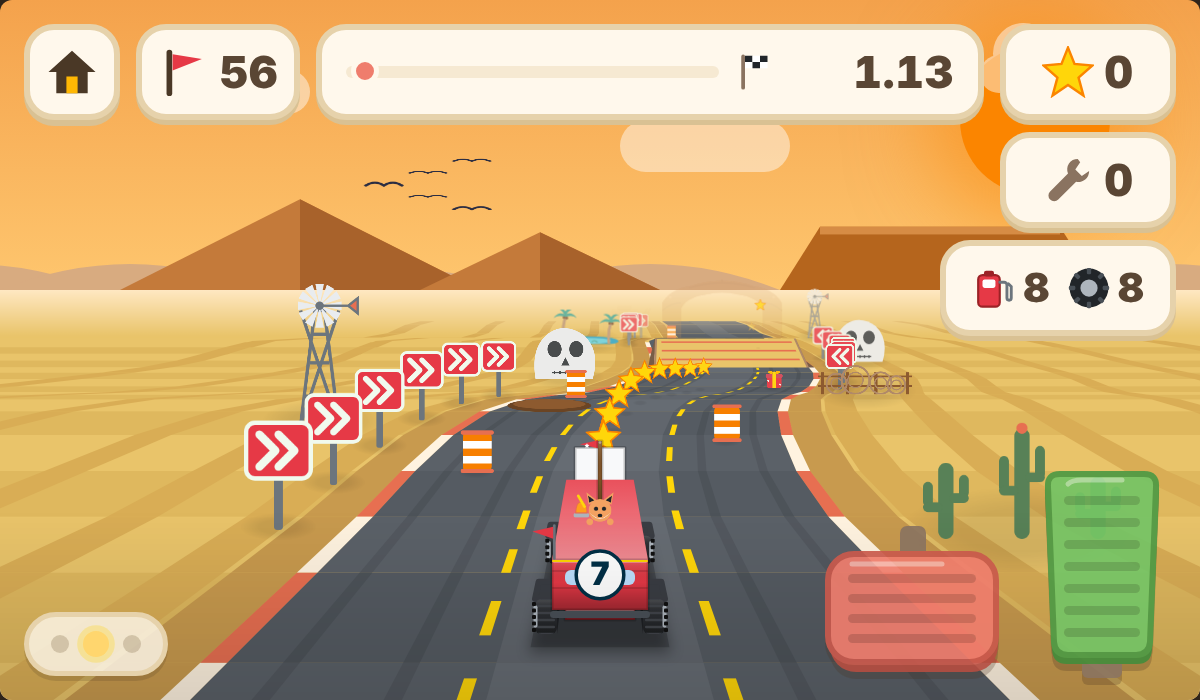
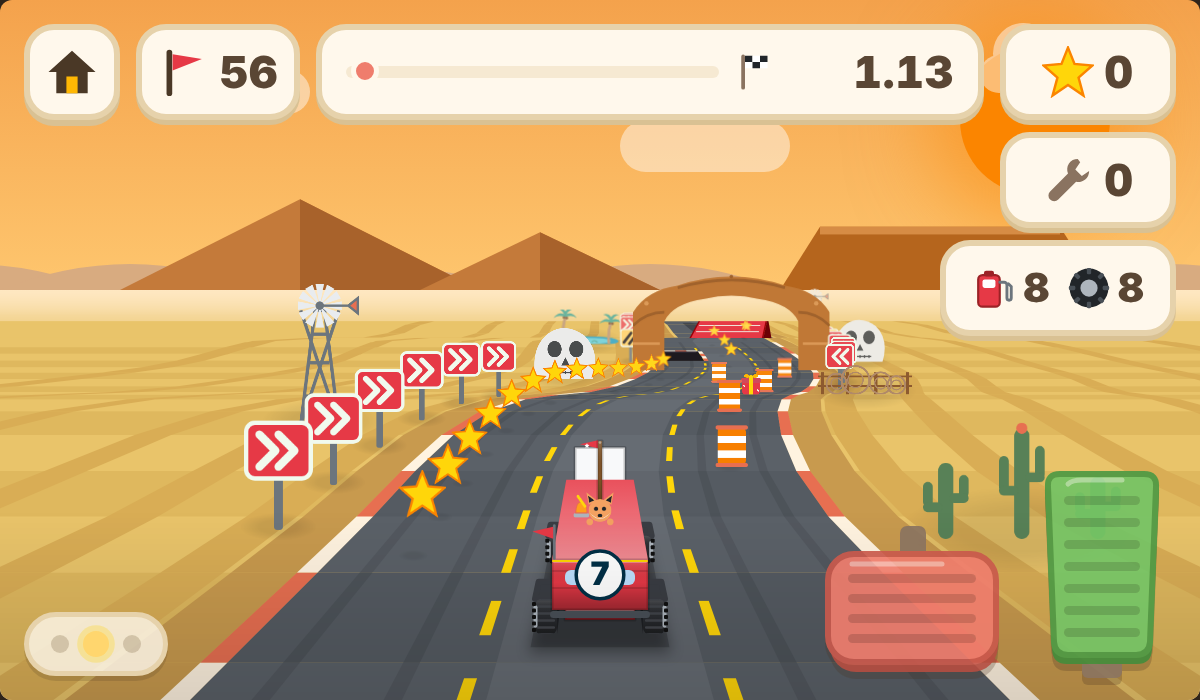
The day chip is gone, the ghost never draws behind the car, README rewritten (v13.19.0)
The map's sun chip (the day of the month, a number nobody could read) is removed with its CSS,
glyph and fill. The grey disc under the arch on 107 was the ghost twin drawn between the camera
and the car: a flat saucer body there projects as a huge translucent disc across the road.
During a race ghostPlace never draws the twin behind the car and fades it right out on top of
the kid's car; after the kid's finish it may still drive through the frame.

README rewritten for the game as it is: Zoomies, the title landing, chompers in three sizes,
ramps in three widths, track gaps, the clean-line speed scrubs, solid hills, the paste button,
the results row, the update badge on the title; new docs/gap.png and docs/narrowramp.png, every
screenshot regenerated on the current content, counts and the version badge current.
ghost-check 19 -> 20, events-check follows. Battery 465/465.

Claude-Session: https://claude.ai/code/session_016ck1aPGLVyXfjAcF2qTzon

Changed region(s): [[0.3392, 0.39, 0.7092, 0.75], [0.3392, 0.45, 0.37, 0.48], [0.3083, 0.24, 0.3392, 0.27]]

diff --git a/index.html b/index.html
@@ -1341,9 +1341,6 @@ html, body { background: #2f241a; }               /* warm dark letterbox, was na
 
 /* ============ SURPRISE EVENTS: map markers, the today chip, the road dino ============ */
 /* today chip: sun + day numeral, mirrors the road HUD's level chip slot (home 24-120 | chip 136-300) */
-#todayChip { left: 136px; top: 24px; width: 164px; justify-content: center; padding: 0; box-sizing: border-box; display: none; }
-#todayChip.show { display: flex; }
-#todayChip svg { width: 56px; height: 56px; }
 /* rainbow day: a soft arc over the meadow, behind the tabs and nodes */
 #mapRainbow { position: absolute; left: 50%; top: 10px; width: 1000px; height: 330px; transform: translateX(-50%); pointer-events: none; z-index: 1; display: none; }
 #mapRainbow.show { display: block; }
@@ -1831,7 +1828,6 @@ html, body { background: #2f241a; }               /* warm dark letterbox, was na
     <div id="mapGround"></div>
     <!-- surprise events: rainbow day arc + the "today" sun chip (filled by renderMapEvents) -->
     <div id="mapRainbow" aria-hidden="true"></div>
-    <div class="chip" id="todayChip" aria-label="today"></div>
     <div id="worldTabs"></div>
     <button class="bigBtn" id="paradeBtn" aria-label="victory parade">
       <svg viewBox="0 0 64 64"><path d="M22 4 L26 10 L32 5 L38 10 L42 4 L44 14 H20 Z" fill="#fff8ec"/><path d="M18 14 H46 V30 Q46 44 32 48 Q18 44 18 30 Z" fill="#fff8ec" stroke="#dca63f" stroke-width="3"/><path d="M18 18 Q6 20 12 32 Q15 38 20 38 M46 18 Q58 20 52 32 Q49 38 44 38" stroke="#fff8ec" stroke-width="4" fill="none"/><rect x="26" y="48" width="12" height="7" fill="#dca63f"/><rect x="20" y="55" width="24" height="6" rx="3" fill="#c69334"/></svg>
@@ -2099,7 +2095,7 @@ html, body { background: #2f241a; }               /* warm dark letterbox, was na
 /* ===== 0. VERSION ===== */
 /* Bumped with each release alongside package.json; shown as a tiny numeral row in the
    grown-ups (profile) panel. The update gate fingerprints the code itself, not this. */
-const APP_VERSION = "13.18.1";
+const APP_VERSION = "13.19.0";
 /* the game's name as the OS sees it (share sheets). The <title>, the apple-mobile-web-app-title meta and
    manifest.webmanifest carry the same word; storage keys and save-code prefixes keep "vroom" forever. */
 const GAME_NAME = "Zoomies";
@@ -8774,10 +8770,12 @@ function ghostPlace(carX) {
   if (over > GHOST_FADE) { if (g.vis) { g.wrap.style.display = "none"; g.vis = false; } return; }
   const [gp, gl, gj] = ghostAt(ghostT);
   g.x = gp + CAR_SCREEN_X - CAR_HIT_Z; g.lx = (gl - 1) * LANE_W; g.h = gj;
+  /* behind the car (between it and the camera) the twin would draw huge and over everything, a flat saucer body as a
+     grey disc across half the road (13.19): it is never drawn there, and on top of the kid's car it fades right out */
+  if (!finished && g.x - carX < -30) { if (g.vis) { g.wrap.style.display = "none"; g.vis = false; } return; }   /* after the kid's finish it may drive through the frame */
   placeSprite(g, carX);
-  /* right on top of the kid's car it thins out so it never hides them; past its own line it fades away */
-  const near = Math.min(1, Math.abs(g.x - carX) / 140);
-  const op = (0.45 * (0.3 + 0.7 * near) * (over > 0 ? 1 - over / GHOST_FADE : 1)).toFixed(2);
+  const near = Math.min(1, Math.abs(g.x - carX) / 160);
+  const op = (0.45 * near * (over > 0 ? 1 - over / GHOST_FADE : 1)).toFixed(2);
   if (op !== g.gop) { g.el.style.opacity = op; g.gop = op; }
 }
 /* ---- end GHOST RACE ---- */
@@ -10553,7 +10551,6 @@ const EVENT_WEATHER = {
   rain: { world: 4, icon: `<svg viewBox="0 0 64 64"><path d="M18 34 a12 12 0 0 1 2 -24 a14 14 0 0 1 26 2 a10 10 0 0 1 2 22 Z" fill="#fff8ec" stroke="#1d3557" stroke-width="4" stroke-linejoin="round"/><path d="M22 42 L18 52 M32 42 L28 52 M42 42 L38 52" stroke="#4cc9f0" stroke-width="5" stroke-linecap="round"/></svg>` },
   snow: { world: 5, icon: `<svg viewBox="0 0 64 64"><g stroke="#4cc9f0" stroke-width="5" stroke-linecap="round" fill="none"><path d="M32 8 V56 M11 20 L53 44 M53 20 L11 44"/><path d="M26 14 L32 20 L38 14 M26 50 L32 44 L38 50 M14 28 L22 30 L20 22 M50 28 L42 30 L44 22 M14 36 L22 34 L20 42 M50 36 L42 34 L44 42"/></g></svg>` }
 };
-const EV_SUN = `<svg viewBox="0 0 64 64"><g stroke="#fb8500" stroke-width="5" stroke-linecap="round"><path d="M32 4 V12 M32 52 V60 M4 32 H12 M52 32 H60 M12 12 L18 18 M46 46 L52 52 M12 52 L18 46 M46 18 L52 12"/></g><circle cx="32" cy="32" r="14" fill="#ffd60a" stroke="#fb8500" stroke-width="4"/></svg>`;
 const EV_RAINBOW_ARC = (() => {
   const cols = ["#e53935", "#fb8c00", "#fdd835", "#43a047", "#1e88e5", "#8e24aa"];
   return `<svg viewBox="0 0 1000 330">` + cols.map((c, i) => {
@@ -10613,12 +10610,9 @@ function dailyEvents() {
   out.weatherWorld = wOrder.find(k => k <= w && k !== EVENT_WEATHER[out.weather].world) || 0;
   return out;
 }
-/* ---- map: markers on the nodes and tabs, the arc, the day chip ---- */
+/* ---- map: markers on the nodes and tabs, the arc (the day chip went in 13.19: a sun with a number nobody could read) ---- */
 function renderMapEvents() {
   const ev = dailyEvents();
-  const chip = document.getElementById("todayChip");
-  chip.classList.toggle("show", ev.day > 0);
-  chip.innerHTML = ev.day > 0 ? EV_SUN + `<span>${ev.day}</span>` : "";
   const arc = document.getElementById("mapRainbow");
   arc.classList.toggle("show", ev.rainbow > 0);
   arc.innerHTML = ev.rainbow > 0 ? EV_RAINBOW_ARC : "";

diff --git a/README.md b/README.md
@@ -16,7 +16,7 @@
   <a href="https://github.com/zacker3310/vroom/actions/workflows/test.yml"><img src="https://github.com/zacker3310/vroom/actions/workflows/test.yml/badge.svg" alt="tests"></a>
   <img src="https://img.shields.io/badge/dependencies-0-74c465" alt="zero dependencies">
   <img src="https://img.shields.io/badge/one%20file-index.html-ffd66e" alt="one file">
-  <img src="https://img.shields.io/badge/version-12.9.0-6fc0df" alt="version 12.9.0">
+  <img src="https://img.shields.io/badge/version-13.19.0-6fc0df" alt="version 13.19.0">
 </p>
 
 ![The title: the ZOOMIES sign hanging over a panorama of the worlds, the kid's own car rolling on the road, the play pill glowing below](docs/title.png)
@@ -25,45 +25,49 @@
 
 ## Highlights
 
-- **Build it, then drive it.** 23 bodies, 14 wheel sets, 24 paints (one of them a secret), 8 flank decals, 12 bolt-on extras, a race number you type on a keypad, and 10 buddies, every one of them drawn in code. The exact car you build in the garage is the car you see from behind on the road, party hat and all.
-- **Twelve worlds, 120 levels.** Construction, sunset, night, rain, snow, desert, beach, space, volcano, candy land, deep sea and sky kingdom. Each is a place with its own roadside, weather, hazards, hills, jingle, ambience and star-chime scale.
-- **A road that bends and rolls.** An OutRun-style chase cam with eased curvature stretches and cosine hills, three lanes, a gas pedal, a brake pedal, and steering by swiping the road. The camera swings through lane changes, widens with speed and shakes on a hit; the car turns its nose into the lane it heads for; every prop stands on its own shadow and fades into the haze; a chomper sits across the road on every world: drive into its mouth and it bites, chews, spits a few of your stars onto the road ahead and then spits you out over them (grab them straight back), hills are solid (what is behind a crest stays behind it until you top it), hard turns come with red chevron boards and howling tires, roller levels stack big hills back to back, and the jumps run from little green hop kickers to a big red mega ramp.
+- **Build it, then drive it.** 23 bodies, 14 wheel sets, 24 paints (one of them a secret), 8 flank decals, 12 bolt-on extras, a race number you type on a keypad, and 10 buddies, every one of them drawn in code. The exact car you build in the garage is the car you see from behind on the road, party hat and all, and the one that rolls across the title screen.
+- **Twelve worlds, 120 levels.** Construction, sunset, night, rain, snow, desert, beach, space, volcano, candy land, deep sea and sky kingdom. Each is a place with its own roadside, weather, hazards, hills, jingle, ambience and star-chime scale. The deep sea runs through a glass tunnel with caustics on the seabed and a whale in the far water.
+- **A road that bends and rolls.** An OutRun-style chase cam with eased curvature stretches and cosine hills, three lanes, a gas pedal, a brake pedal, and steering by swiping the road. The camera swings through lane changes, widens with speed and shakes on a hit; the car turns its nose into the lane it heads for; every prop stands on its own shadow and fades into the haze; hills are solid, so what is behind a crest stays behind it until you top it.
+- **Set pieces that make you steer.** Ramps come in single-lane, two-lane and full-width decks, from little green hop kickers to the big red mega ramp, and only a car on the deck launches. Holes open in the track across one, two or all three lanes; a full-width hole always has a full-width ramp before it, and dropping into one is a bounce and a slowdown, never a crash. Hard turns come with red chevron boards and howling tires; roller levels stack big hills back to back.
+- **The chomper.** A purple monster sits across the road on every world, in one-lane, two-lane and full-width sizes, with a trail of stars leading into its mouth. Drive in and it bites (that one hurts), chews, spits a few of your run's stars back down the road and then spits you out backwards over them; then it dozes off full, and you drive back up through it to collect. Pick another lane and the jaws just snap behind you.
 - **Levels with a signature.** Every level is sequenced from a library of 42 formations so level 7 feels like "the snake-trail level" and level 8 like "the barrel-bowling level". Two headless bots drive all of them in the test suite to prove each is fair.
 - **Race yourself.** Your fastest run on every level rides along as a translucent ghost next time, with a gap chip and a bigger medal when you beat it. A clean line wins: every lane change and every landing scrubs a little speed, so the run that swerves and jumps everywhere is not the run that beat the ghost.
-- **Something new every day.** A gift capsule in the garage once a day, and three surprises on the map seeded from the date: a sleeping dino to honk awake, a rainbow day with a secret paint, a weather day. The garage car idles, blinks and yawns; tap the hood or a wheel.
+- **Something new every day.** A gift capsule once a day, and three surprises on the map seeded from the date: a sleeping dino to honk awake, a rainbow day with a secret paint, a weather day. The garage car idles, blinks and yawns; tap the hood or a wheel.
 - **Keep it running.** Fuel burns and tires wear as you drive, mud sticks until you wash it, dings stay until you fix them. A dry tank crawls and bald tires slide, but nothing ever stops you, and crossing the line spotless pays a shine bonus.
-- **Nothing to read, nothing to lose.** Icons, pictures and numerals only. Stars only go up. Crashes are comedy.
-- **Grown-up friendly.** Three kid profiles, scan-to-open QR save codes, a quiet mode for the car, home-screen install, and a toddler-proof update badge.
+- **Nothing to read, nothing to lose.** Icons, pictures and numerals only (the two words in the game, ZOOMIES on the title sign and PLAY on its button, are drawn as shapes). The star wallet only goes up. Crashes are comedy.
+- **Grown-up friendly.** Three kid profiles, a QR of every save, share-out and scan-in or paste-in, a quiet mode for the car, home-screen install, and a toddler-proof update badge on the title and in the garage.
 - **One file.** No frameworks, no build step, no assets, no network calls. All art is inline SVG, all sound is Web Audio synthesis.
 
 ## Screenshots
 
-| Garage | Road |
+| Title | Garage |
 |---|---|
-| ![Garage](docs/garage.png) | ![Space world: driving the moon road under a starfield with headlights on](docs/space.png) |
+| ![The title: the ZOOMIES sign over a panorama of the twelve worlds, the kid's own car rolling on the road](docs/title.png) | ![The garage: a pirate-ship car with a fox buddy, the body strip open below](docs/garage.png) |
 
 | Worlds | |
 |---|---|
-| ![Deep Sea: a glass tunnel on the seabed under a whale-bone arch, dolphins overhead](docs/sea.png) | ![Sky Kingdom: the cloud causeway with floating castles under a rainbow](docs/sky.png) |
-| ![Rain world: the city under a rainbow, a chomper waiting down the road](docs/rain.png) | ![The world map with the day's surprises: a sleeping dino on one level, a rainbow, a weather badge on a world tab](docs/map.png) |
+| ![Space world: driving the moon road under a starfield with headlights on](docs/space.png) | ![Deep Sea: the glass tunnel on the seabed, caustics on the sand, a whale in the far water](docs/sea.png) |
+| ![Sky Kingdom: the cloud causeway with floating castles under a rainbow](docs/sky.png) | ![Rain world: the city under a rainbow](docs/rain.png) |
 
-| Wild roads | |
+| Set pieces | |
 |---|---|
-| ![A chomper: the purple monster across the road, jaws open, a trail of stars leading in](docs/chomper.png) | ![A desert switchback: red chevron boards on the outside of a hard turn](docs/hardturn.png) |
-| ![The big red mega ramp dead ahead under the construction gantry](docs/megaramp.png) | |
+| ![A chomper: the purple monster across the road, jaws open, a trail of stars leading in](docs/chomper.png) | ![A hole in the track across one lane, hazard boards on the verge](docs/gap.png) |
+| ![A single-lane ramp: the deck under one lane only](docs/narrowramp.png) | ![The big red mega ramp dead ahead under the construction gantry](docs/megaramp.png) |
+| ![A desert switchback: red chevron boards on the outside of a hard turn](docs/hardturn.png) | ![The world map with the day's surprises: a sleeping dino on one level, a rainbow, a weather badge on a world tab](docs/map.png) |
 
 | Album | Results |
 |---|---|
-| ![The sticker album: buddies, badges, and finish-line polaroids with their world behind the car](docs/album.png) | ![The results card: star tally, rating stars, time medal and the shine bonus](docs/celebrate.png) |
+| ![The sticker album: buddies, badges, and finish-line polaroids with their world behind the car](docs/album.png) | ![The results card: star tally, rating stars, time medal, and the row of again, garage, map and next](docs/celebrate.png) |
 
 ## How to play
 
-**The garage.** The game opens on a title screen with your car idling; the big GO lands here. Six category tabs (body, wheels, paint, stickers, extras, workbench) open one
-scrollable strip of big picture tiles; tap a tile to equip it, swipe or use the arrows to see more. Locked parts show in full colour with a star price tag: collect stars, tap, own it. The sticker tab also holds a race number: tap the roundel tile, type up to two digits on a big keypad, and 400 stars paints it on both sides of the car (taking it off is free). The workbench tab holds the engine, shield, star magnet, fuel tank and springs upgrades and the upkeep: fix crash damage with the wrench, wash off real mud with your finger, fill the tank, fit new tires. Fuel burns and tires wear as you drive; a dry tank crawls and bald tires slide, but nothing ever stops you. Cross the line spotless and ding-free and your stars pay a shine bonus. The shuffle button at the end of the tab row builds you a surprise from the parts you own. Tap the car to honk, tap the hood to pop it open, tap a wheel to spin it. Once a day a gift capsule waits on the right wall.
+**The title.** The game opens on a landing: the ZOOMIES sign swings in over a panorama of the twelve worlds, your own car drives on and idles with its wheels turning, and the PLAY pill takes you to the garage. The avatar top left opens the profiles; when a new version is live, a green badge appears beside it (hold it to update). Tap the car to honk.
 
-**The road.** Hold the gas, steer into stars and away from barrels, rocks, TNT, tumbleweeds and crabs. Your best run rides along as a ghost; the chip under the level flag shows the gap, and beating it pays your stars at 1.5x. A new star best pays in full; a plain replay pays half, so favourite levels are a treat, not a farm. Free drive on the map is a daily treat: up to 100 stars a day, then the button rests until tomorrow. Ramps jump, puddles splash, capsules pop open with prizes (and sometimes a buddy). The finish gantry brings confetti, a star tally, a 1 to 3 star rating and an S/A/B/C time medal. Under it, four buttons: again (big and blue, with the ghost to beat bobbing over it wearing the medal its time earns), garage (orange, straight to the workbench to wash and service the car), the level map (red) and the next race (big and green).
+**The garage.** Six category tabs (body, wheels, paint, stickers, extras, workbench) open one scrollable strip of big picture tiles; tap a tile to equip it, swipe or use the arrows to see more. Locked parts show in full colour with a star price tag: collect stars, tap, own it. The sticker tab also holds a race number: tap the roundel tile, type up to two digits on a big keypad, and 400 stars paints it on both sides of the car (taking it off is free). The workbench tab holds the engine, shield, star magnet, fuel tank and springs upgrades and the upkeep: fix crash damage with the wrench, wash off real mud with your finger, fill the tank, fit new tires. The shuffle button at the end of the tab row builds you a surprise from the parts you own. Tap the car to honk, tap the hood to pop it open, tap a wheel to spin it. Once a day a gift capsule waits on the right wall.
 
-**The map.** A winding road of level nodes, with the day's three surprises marked on it. Beat a world's last level to unlock the next and bank a trophy bonus. The free-drive wheel tours every world with no finish line and no timer. Beat all 120 levels and the Victory Parade appears: a rainbow road finale with fireworks and every buddy you have found cheering from the roadside.
+**The road.** Hold the gas, steer into stars and away from barrels, rocks, TNT, tumbleweeds and crabs. Ramps only launch the lanes they cover, holes only catch the lanes they open across, and the chomper only bites the lanes its mouth spans, so the lane you pick matters. Your best run rides along as a ghost; the chip under the level flag shows the gap, and beating it pays your stars at 1.5x. A new star best pays in full; a plain replay pays half, so favourite levels are a treat, not a farm. Free drive on the map is a daily treat: up to 100 stars a day, then the button rests until tomorrow. Puddles splash, capsules pop open with prizes (and sometimes a buddy). The finish gantry brings confetti, a star tally, a 1 to 3 star rating and an S/A/B/C time medal. Under it, four buttons: again (big and blue, with the ghost to beat taunting beside it, wearing the medal its time earns), garage (orange, straight to the workbench to wash and service the car), the level map (red) and the next race (big and green).
+
+**The map.** A winding road of level nodes, with the day's surprises marked on it. Beat a world's last level to unlock the next and bank a trophy bonus. The free-drive wheel tours every world with no finish line and no timer. Beat all 120 levels and the Victory Parade appears: a rainbow road finale with fireworks and every buddy you have found cheering from the roadside.
 
 **The album.** Buddies you have found (tap one to ride along), "first!" sticker badges, and a polaroid of every finish taken where it happened. Tap a photo or a sticker to see it big.
 
@@ -76,19 +80,19 @@ scrollable strip of big picture tiles; tap a tile to equip it, swipe or use the 
 
 ## For grown-ups
 
-- **Profiles.** The avatar button (top left of the garage) holds up to three kids, each with their own save. No typing, just faces. Tap a face for that kid's card: their car, stars and flags, a play button to switch to them, a camera button to scan a save into that slot, and a red button you press and hold until the ring fills (about a second) to erase the save, so a stray tap can never do it. Erasing the only kid just starts them over. An empty face opens the same card with a clipboard button in place of the face: tap it to paste a save code straight into that slot.
-- **Save codes and QR.** The same panel shows a QR of the current kid's save and a share button that hands the share sheet the hosted link plus the plain code (the clipboard on a desktop); tapping that link opens the game with the save ready to load. To receive, tap a face and then its camera button: the game reads the other device's QR inside the app, so the save lands in this app's own storage (a picture picker reads a screenshot of a QR too). Every incoming save shows a wordless preview first (the car, its stars, its beaten levels, the kid, and a warning triangle when that slot has beaten more) before the tick; the loaded car then honks in with confetti.
+- **Profiles.** The avatar button (top left of the title and the garage) holds up to three kids, each with their own save. No typing, just faces. Tap a face for that kid's card: their car, stars and flags, a play button to switch to them, a camera button to scan a save into that slot, and a red button you press and hold until the ring fills (about a second) to erase the save, so a stray tap can never do it. Erasing the only kid just starts them over. An empty face opens the same card with a clipboard button in place of the face: tap it to paste a save code straight into that slot.
+- **Save codes and QR.** The profile panel shows a QR of the current kid's save and a share button that hands the share sheet the hosted link plus the plain code (the clipboard on a desktop); tapping that link opens the game with the save ready to load. To receive, tap a face and then its camera button (the game reads the other device's QR inside the app; a picture picker reads a screenshot of a QR too) or the clipboard button on an empty face. Every incoming save shows a wordless preview first (the car, its stars, its beaten levels, the kid, and a warning triangle when that slot has beaten more) before the tick; the loaded car then honks in with confetti.
 - **Quiet mode.** The speaker toggle in the profile panel drops every sound to car-friendly volume. It sticks.
 - **Offline and home screen.** From Safari, Share, then Add to Home Screen. It installs with its own icon, launches full-screen in landscape and runs with no connection.
-- **Updates.** When a new version is live, a green refresh badge appears beside the avatar in the garage. Press and hold it until the ring fills (about a second and a half, so stray toddler taps do nothing) and the game reloads into the new version. Progress is kept. The version number sits in the corner of the profile panel.
-- **Where progress lives.** In the browser's local storage on the device. Clearing Safari website data erases it, so export a save code first if it matters.
+- **Updates.** When a new version is live, a green refresh badge appears beside the avatar on the title and in the garage. Press and hold it until the ring fills (about a second and a half, so stray toddler taps do nothing) and the game reloads into the new version. Progress is kept. The version number sits in the corner of the profile panel.
+- **Where progress lives.** In the browser's local storage on the device. Clearing Safari website data erases it, so share a save code first if it matters.
 
 ## Design principles
 
 These are the rules the game was built on and the test suite enforces. They are not up for debate in a pull request.
 
-1. **Zero required reading.** Icons, pictures and numerals only. No words in the game.
-2. **Nothing to lose.** No fail states, no game-overs, no timers that punish. Stars only go up; obstacles bonk-and-stop but never end a run.
+1. **Zero required reading.** Icons, pictures and numerals only. The title's wordmark and its PLAY label are the only words, drawn as shapes.
+2. **Nothing to lose.** No fail states, no game-overs, no timers that punish. The star wallet only goes up; obstacles bonk-and-stop but never end a run, and the one thing that takes stars off the run tally (the chomper) puts them back on the road.
 3. **Every tap answers instantly** with motion and a synthesized sound.
 4. **Every touch target is at least 64 px** rendered on an iPad in landscape (1024x768). Portrait politely asks you to rotate.
 5. **One warm design language** everywhere ("Toybox"): cream paper, wood, warm putty for locked states, one amber for selection, one green for go, flat unblurred shadows, staggered pop-in entrances.
@@ -99,8 +103,8 @@ These are the rules the game was built on and the test suite enforces. They are 
 Everything is in `index.html`: a `<style>` block, the markup for six scenes (title, garage, map, road, album, celebrate) and one `<script>`. The deeper tour is in [docs/ARCHITECTURE.md](docs/ARCHITECTURE.md); the short version:
 
 - **Stage.** A fixed 1200x700 stage scaled to fit the viewport. Vehicles are SVG part groups recoloured through the `--paint` CSS variable; the same build renders in a side view (garage, album) and a projected rear view (road).
-- **Chase-cam projector.** World coordinates keep the side-scroller's `x` (distance along the road) so the level, physics and collision code never changed; the renderer adds a lateral offset and a height and projects through one camera (`HORIZON`, `CAM_D`, `CAM_H`). Curves are eased curvature stretches integrated into a per-frame lateral offset table; hills are cosine bumps the camera rides, so a crest lifts the far road into the sky. Rear-view cars are chunky 3D toy blocks (boxes, cylinders, hulls) painter-sorted and projected through the same camera.
-- **Beat sequencer.** A level is a seeded sequence of formations: a signature beat (never one of the last four levels' signatures), one or two contrasts and breathers in one of three rhythms, ramps dropped in on cue, then guarantee passes that enforce ingredients, hard-obstacle and star budgets, clean ramp run-ups and landings, and "a stray barrel never sits inside a star trail".
+- **Chase-cam projector.** World coordinates keep the side-scroller's `x` (distance along the road) so the level, physics and collision code never changed; the renderer adds a lateral offset and a height and projects through one camera (`HORIZON`, `CAM_D`, `CAM_H`). Curves are eased curvature stretches integrated into a per-frame lateral offset table; hills are cosine bumps the camera rides, and a crest ahead is a wall: what lies lower behind it is veiled in haze until the car tops it. Rear-view cars are chunky 3D toy blocks (boxes, cylinders, hulls) painter-sorted and projected through the same camera.
+- **Beat sequencer.** A level is a seeded sequence of formations: a signature beat (never one of the last four levels' signatures), one or two contrasts and breathers in one of three rhythms, ramps and track gaps dropped in on cue, the chomper laid first with its trail, then guarantee passes that enforce ingredients, hard-obstacle and star budgets, clean ramp run-ups and landings, a clear spit zone, and "a stray barrel never sits inside a star trail".
 - **World packs.** Worlds 9 to 12 register themselves at anchor comments by assigning into the live tables (`WORLD_META`, `ROAD_PAL`, scenery pools, hazards, `WORLD_ROAD`, beats, jingles, ambience, star scales, sky events). Shop and paint packs do the same for the catalog.
 - **Save codes.** Format v3 is a count-prefixed bit-packed save (95 bytes with today's catalog; the tail carries fuel, tires, the race number and the newer upgrade pips, and older codes simply stop short) rendered as a real QR by a hand-rolled encoder (byte mode, ECC L, versions 1 to 10 with multi-block Reed-Solomon interleaving), verified byte-exact against jsQR. v1 and v2 codes still decode.
 - **Audio.** Every sound is synthesized: oscillators and filtered noise through one master compressor. The engine is two detuned saws through a speed-swept low-pass plus a wind layer; each world has a jingle, an ambience bed and its own star-chime scale.
@@ -116,7 +120,7 @@ python3 -m http.server 4173     # then open http://localhost:4173/
 
 There is no build. Edit `index.html`, reload.
 
-The test suite is 23 Playwright suites (464 checks) that drive the real game in headless Chromium: economy, physics, worlds, album, profiles, save codes, the wash, fuel and tires, the race number, the title screen and daily gift, the ghost race, garage life, the map surprises, the update gate, and the fairness bots that drive all 120 levels.
+The test suite is 23 Playwright suites (465 checks) that drive the real game in headless Chromium: economy, physics, worlds, album, profiles, save codes, the wash, fuel and tires, the race number, the title screen and daily gift, the ghost race, garage life, the map surprises, the update gate, and the fairness bots that drive all 120 levels.
 
 ```bash
 npm ci                                   # playwright-core + jsqr, test-only
@@ -128,7 +132,7 @@ npm test                                 # serves index.html on a free port, run
 
 ## Project history
 
-The game grew through twelve user-directed versions and their point releases, from a five-body garage to twelve worlds, ghosts, daily surprises and a workbench with five ladders. [TASKS.md](TASKS.md) is the version-by-version log; [SPEC.md](SPEC.md) is the living design spec. It was built with Claude Code in an agentic build loop: design and content generated by parallel subagents, every round audited by an adversarial reviewer with fix authority before merge. The audit trail is in `.buildloop/`.
+The game grew through thirteen user-directed versions and their point releases, from a five-body garage to twelve worlds, ghosts, daily surprises, chompers and a workbench with five ladders. [TASKS.md](TASKS.md) is the version-by-version log; [SPEC.md](SPEC.md) is the living design spec. It was built with Claude Code in an agentic build loop: design and content generated by parallel subagents, every round audited by an adversarial reviewer with fix authority before merge. The audit trail is in `.buildloop/`.
 
 ## Credits
 

diff --git a/tests/README.md b/tests/README.md
@@ -1,6 +1,6 @@
 # Vroom test suites
 
-Twenty-three Playwright regression suites (464 checks) that drive the real game in headless
+Twenty-three Playwright regression suites (465 checks) that drive the real game in headless
 Chromium. They are the gate for every change: CI runs them on each push and pull request.
 
 ## Run everything
@@ -81,7 +81,7 @@ click stability check.
 | `number-check.cjs` | 13 | race number: sticker-tab tile, keypad rules, 400-star change / free removal, roundel in both views beside a sticker, save-code tail, photos |
 | `course-check.cjs` | 30 | wild courses: chompers (one per world, in one-lane, two-lane and full sizes, the monster at the mouth with its trail in its lanes, the bite that holds the car and tosses run stars, the drive-past in another lane), ramps in three widths with their stars in the deck's lanes and the off-lane roll-past, track gaps (counts, widths, beats, placement rules, boards, the full-width ramp before a full hole, the drop that slows and never damages), opaque crests, hard turns, rollers, jumps, the mixer drum, reduced motion |
 | `title-check.cjs` | 17 | start screen: title scene on boot, 88 px play pill, gift badge, honk, the moving world and its reduced-motion stop, the title update gate; daily gift: once-a-day capsule above the dice, 15..40 stars or an unowned buddy, claimed state across reloads, next-day return, the `?garage` / `vroom.skipTitle` skips, reduced motion |
-| `ghost-check.cjs` | 19 | ghost race: trace recording, replay sprite follows the trace, slower keeps / faster replaces, gap chip, fade at the line, reload, save-code exclusion, malformed ghost dropped |
+| `ghost-check.cjs` | 20 | ghost race: trace recording, replay sprite follows the trace, slower keeps / faster replaces, gap chip, fade at the line, reload, save-code exclusion, malformed ghost dropped |
 | `upkeep-check.cjs` | 24 | fuel and tire wear, the combined HUD chip and its low-gauge split, dry-tank crawl, bald-tire grip, shine bonus, workbench fill-up and tire tiles, save-code tail, legacy defaults, garage column geometry |
 | `events-check.cjs` | 23 | surprise events: date-seeded picks, sleeping dino marker + road prop (wake, 5 bonus stars, no damage), rainbow day + the secret rainbow-shine paint (once, both views, save code, reload), weather day particles, today chip, no-date fallback |
 | `life-check.cjs` | 17 | garage life: idle putter lifecycle and quiet mode, buddy blink / yawn, animated extras, wheel settle, hood and wheel tap toys, road buddy cheer / duck / wave hooks, reduced motion |

diff --git a/TASKS.md b/TASKS.md
@@ -283,6 +283,12 @@
 
 - [x] T38.5: The bite does 3 damage with the crash shake; the spat stars land before the mouth in the kid's lane and the spit throws the car backwards through the air (`chompFling`) to land behind them; the beast dozes off full and the road through it is open, so the kid drives back up and collects. [SPID]
 
+## v13.19.0 (2026-10-10, user-directed: "drop the sun chip, grey disc, update README completely")
+
+- [x] T39.1: The map's day chip (a sun with the day of the month) is gone: `#todayChip`, its CSS, `EV_SUN` and the fill in `renderMapEvents`; events-check follows. [SPID]
+- [x] T39.2: The grey disc: the ghost twin drawn between the camera and the car (a flat saucer body there projects as a huge translucent disc across the road). During a race `ghostPlace` never draws the twin behind the car and fades it right out on top of the kid's car; after the finish it may still drive through the frame. ghost-check 19 -> 20. [SPID]
+- [x] T39.3: README rewritten for the game as it is: Zoomies, the title landing, chompers in three sizes, ramps in three widths, track gaps, the clean-line speed scrubs, solid hills, the paste button, the results row; new docs/gap.png and docs/narrowramp.png; counts and version badge current. [SPID]
+
 ## Backlog (v2 candidates, from kid-testing)
 
 - [ ] T2.1: Real-device iOS pass: audio unlock, multi-touch, add-to-home-screen icon.

diff --git a/docs/ARCHITECTURE.md b/docs/ARCHITECTURE.md
@@ -299,7 +299,9 @@ projector as every prop at `x = pos_g + CAR_SCREEN_X - CAR_HIT_Z`, `lx = (lane_g
 `h = jumpY_g`, where `ghostAt(ghostT)` interpolates linearly between samples (and extrapolates
 past the last one). `ghostT` is the ghost's own clock, advanced in `tick` alongside `runTime`, so
 the twin keeps rolling after the kid finishes and fades out `GHOST_FADE = 0.8` s after its own
-line. The sprite is never in `props`, so no `PROP_HIT` or mover sees it. `#hudGhost` shows
+line. During the race the twin is never drawn between the camera and the car (13.19: a flat saucer body there
+projected as a grey disc across half the road) and it fades right out on top of the kid's car; after the
+kid's finish it may drive through the frame. The sprite is never in `props`, so no `PROP_HIT` or mover sees it. `#hudGhost` shows
 `round(ghostTimeAt(pos) - runTime)` signed: positive means the kid reached this point sooner.
 
 ## The beat sequencer
